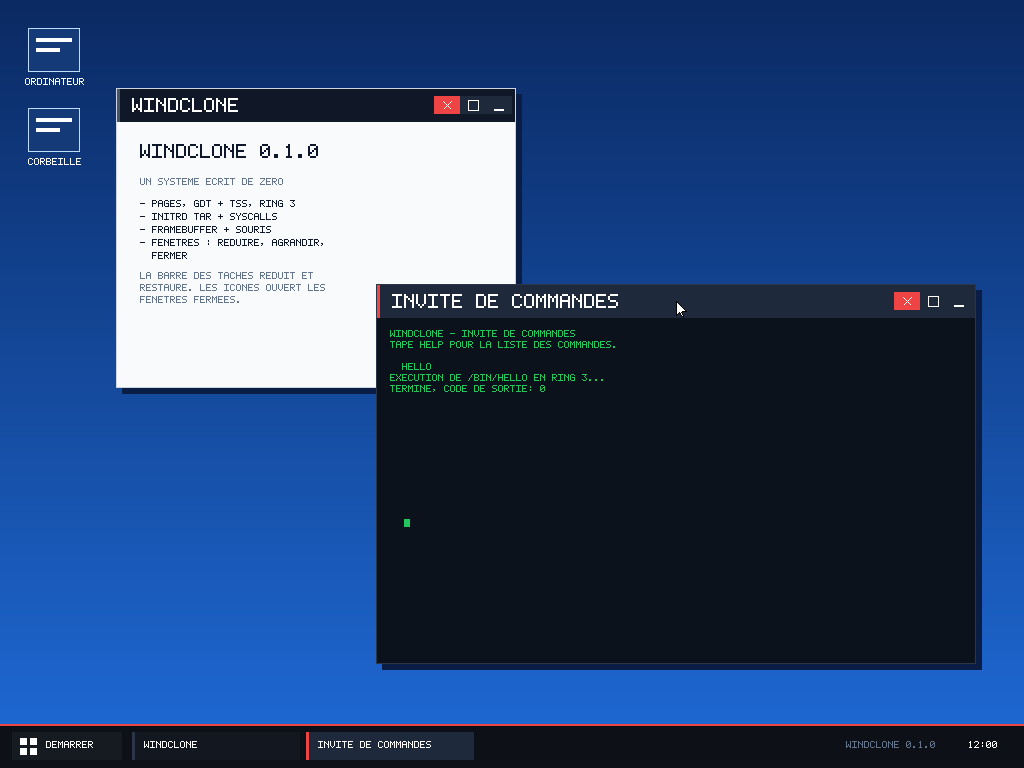
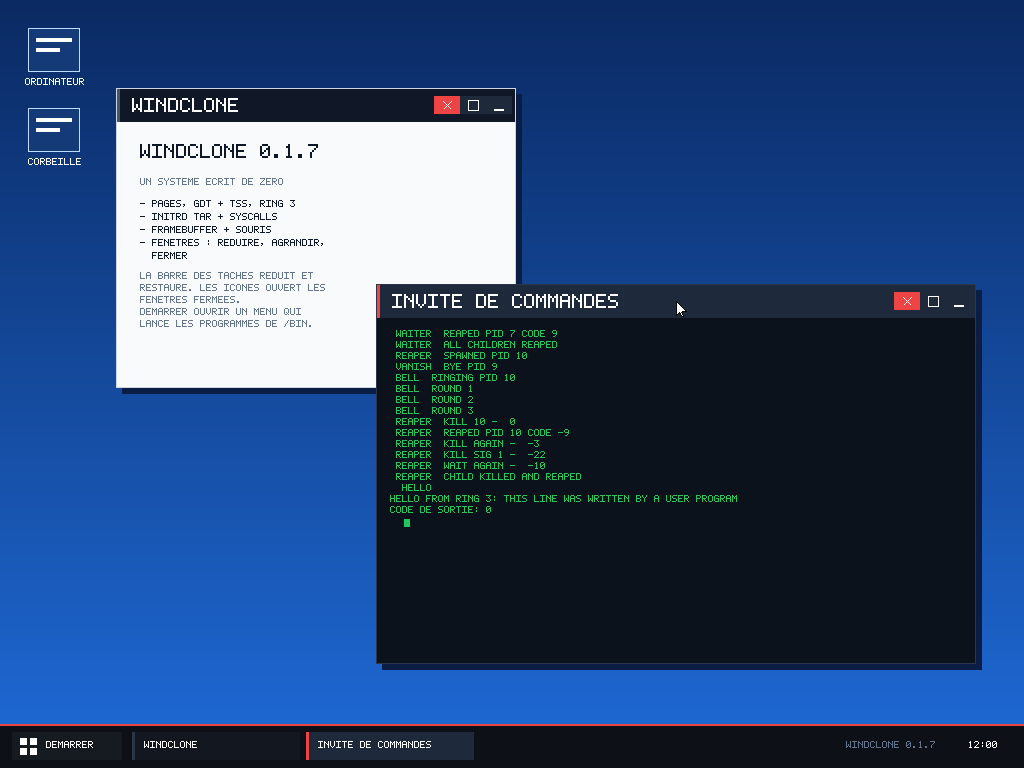
fix(phase8): one version string, and the screen stops lying about releases
The status window drew "WINDCLONE 0.1.0" and `about` answered "0.0.4" —
numbers that stopped being true several releases ago, with a third copy of
the first in the taskbar. A version on screen is a claim about what the
system is, and three copies of it are three chances to be wrong.

src/kernel/version.h now holds the one string the status window, the
taskbar and `about` all draw, and the kernel says it out loud on the boot
log ("boot: windclone 0.1.7, firmware UEFI 64, usable RAM 464 MiB"). The
smoke suite reads the number out of that header and requires both the BIOS
and the UEFI log to announce it, so a release that forgets to bump it
fails the run instead of shipping a screen that describes an older OS.

The status window also gained the two lines the start menu deserves: what
DEMARRER does is the feature a user looks for and cannot infer from a list
of windows.

Changed region(s): [[0.375, 0.4375, 0.5938, 0.6562], [0.125, 0.4062, 0.2812, 0.4375], [0.6875, 0.625, 0.7188, 0.6562]]

diff --git a/src/kernel/desktop.c b/src/kernel/desktop.c
@@ -35,6 +35,7 @@
 #include "serial.h"
 #include "shell.h"
 #include "vfs.h"
+#include "version.h"
 
 #define C_WALL_TOP    gfx_rgb(0x0B, 0x2A, 0x63)
 #define C_WALL_BOTTOM gfx_rgb(0x1F, 0x6B, 0xD8)
@@ -237,7 +238,7 @@ static void draw_status_content(const struct window *w)
     int tx = w->x + 24;
     int ty = w->y + TITLE_H + 22;
 
-    gfx_text(tx, ty, "WINDCLONE 0.1.0", C_INK, 2);
+    gfx_text(tx, ty, "WINDCLONE " WC_VERSION, C_INK, 2);
     ty += 34;
     gfx_text(tx, ty, "UN SYSTEME ECRIT DE ZERO", C_MUTED, 1);
     ty += 22;
@@ -256,6 +257,12 @@ static void draw_status_content(const struct window *w)
     gfx_text(tx, ty, "RESTAURE. LES ICONES OUVERT LES", C_MUTED, 1);
     ty += 12;
     gfx_text(tx, ty, "FENETRES FERMEES.", C_MUTED, 1);
+    ty += 12;
+    /* Said on screen because it is the part a user looks for and cannot see
+     * from the window list: the menu is a launcher, not a decoration. */
+    gfx_text(tx, ty, "DEMARRER OUVRIR UN MENU QUI", C_MUTED, 1);
+    ty += 12;
+    gfx_text(tx, ty, "LANCE LES PROGRAMMES DE /BIN.", C_MUTED, 1);
 }
 
 static void draw_trash_content(const struct window *w)
@@ -520,7 +527,9 @@ static void draw_taskbar(int W, int H)
         x += TASK_W + TASK_GAP;
     }
 
-    gfx_text(W - 178, y + 17, "WINDCLONE 0.1.0", C_MUTED, 1);
+    /* Same macro as the status window: one number, three places that show
+     * it, and no way for one of them to fall behind a release. */
+    gfx_text(W - 178, y + 17, "WINDCLONE " WC_VERSION, C_MUTED, 1);
     gfx_text(W - 56, y + 17, "12:00", C_WHITE, 1);
 }
 

diff --git a/src/kernel/version.h b/src/kernel/version.h
@@ -1,0 +1,21 @@
+/* WindClone — the version the running kernel says out loud.
+ *
+ * One header, one string: the status window, the taskbar and `about` all
+ * read it, because three copies of a version number are three chances to be
+ * wrong — and two of them were. The desktop drew "0.1.0" and the shell
+ * answered "0.0.4" to `about` for whole releases after both numbers had
+ * stopped being true, which is exactly the kind of claim a test suite is for:
+ * tools/local-test.sh reads this file and requires the boot log to announce
+ * the same version it finds here.
+ *
+ * The git tag is what names a released ISO; this is what the kernel itself
+ * reports, and the two are bumped in the same commit.
+ *
+ * SPDX-License-Identifier: MIT
+ */
+#ifndef WINDCLONE_VERSION_H
+#define WINDCLONE_VERSION_H
+
+#define WC_VERSION "0.1.7"
+
+#endif

diff --git a/src/kernel/kernel.c b/src/kernel/kernel.c
@@ -30,6 +30,7 @@
 #include "vfs.h"
 #include "syscall.h"
 #include "usermode.h"
+#include "version.h"
 #include "proc.h"
 #include "gfx.h"
 #include "desktop.h"
@@ -303,7 +304,8 @@ void kmain(void)
     kprint("\nusable RAM: ");
     kprint_dec(ram_mb);
     kprint(" MiB\n");
-    klog("boot: firmware %s, usable RAM %u MiB", fw, (unsigned)ram_mb);
+    klog("boot: windclone %s, firmware %s, usable RAM %u MiB",
+         WC_VERSION, fw, (unsigned)ram_mb);
 
     /* 6. CPU plumbing: audit the GDT Limine gave us, install our own
      *    IDT (exceptions -> readable serial dump, IRQs -> handlers),

diff --git a/src/kernel/shell.c b/src/kernel/shell.c
@@ -27,6 +27,7 @@
 #include "serial.h"
 #include "string.h"
 #include "timer.h"
+#include "version.h"
 
 #define SHELL_ROWS 17
 #define SHELL_COLS 62
@@ -250,7 +251,7 @@ int shell_launch(const char *name)
 
 static void cmd_about(void)
 {
-    put_line("WINDCLONE 0.0.4 - X86_64");
+    put_line("WINDCLONE " WC_VERSION " - X86_64");
     put_line("KERNEL: C, ASM, SANS LIBC");
     put_line("RING 3 + INITRD + FRAMEBUFFER: OK");
     put_line_num("UPTIME: ", timer_ticks() / 100);

diff --git a/docs/ROADMAP.md b/docs/ROADMAP.md
@@ -370,6 +370,13 @@ Legend: ✅ done · 🔄 in progress · ⏳ not started
       Makefile to appear and `hidden 0`, and `tools/qemu-desktop.py menu` reads
       the index of `hello` out of that log, clicks *that* row, and greps
       `shell: launched 'hello' from the start menu` plus the program's own line
+- [x] One version string. `src/kernel/version.h` is what the status window, the
+      taskbar and `about` all draw, and the kernel says it on the boot log —
+      which the test reads back out of that header, so a number a release left
+      behind fails the run. Until now the desktop drew "0.1.0" and `about`
+      answered "0.0.4", both stale by several releases: three copies of a
+      version are three chances to be wrong, and an OS whose screen describes
+      an older OS is lying to the person reading it
 - [x] Mouse driver: 8042 aux channel, IRQ12 (cascade unmasked), 3-byte
       packets with the sign bits in the flags byte — verified headlessly by
       injecting `mouse_move` through the QEMU monitor and grepping the
